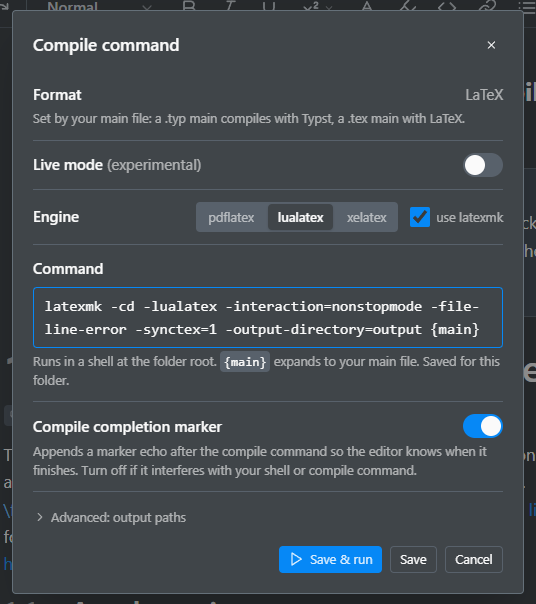
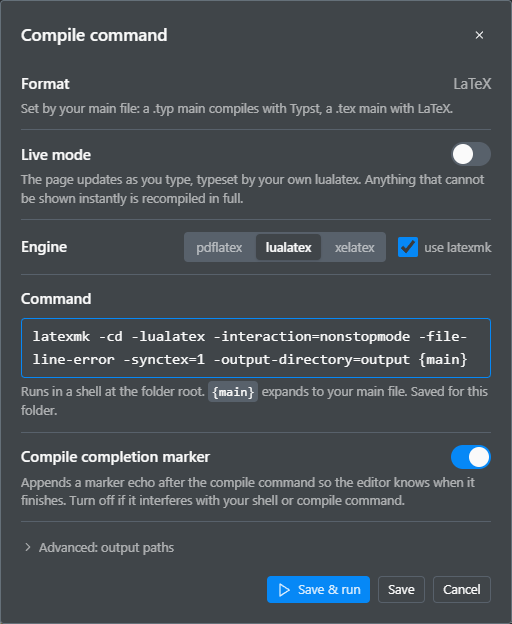
feat(editor): take live mode out of experimental
The compile dialog drops the experimental tag, explains live mode under the switch, and warns about battery use and document size while it is on. The docs page lists the limits (lualatex only, no shell escape, Save PDF, shared sessions, autosave, the _draft folder) and the dialog screenshot is recaptured. The Typst preview note uses the same plain wording.

Changed region(s): [[0.0, 0.0, 1.0, 1.0], [0.9062, 0.0596, 0.9375, 0.0894]]

diff --git a/apps/texpile-editor/src/lib/modals/workspace/LatexCompileSettings.svelte b/apps/texpile-editor/src/lib/modals/workspace/LatexCompileSettings.svelte
@@ -58,9 +58,7 @@
      was, ready for the next LaTeX folder. -->
 <div class={row}>
 	<div class="flex items-center justify-between gap-4">
-		<span class="text-sm font-medium">
-			{m.wsview_live_mode_label()} <span class="text-muted font-normal">{m.wsview_experimental_label()}</span>
-		</span>
+		<span class="text-sm font-medium">{m.wsview_live_mode_label()}</span>
 		<Switch
 			checked={compileConfig.current.latex.liveMode}
 			disabled={sessionActive}
@@ -70,6 +68,7 @@
 			<Switch.HiddenInput />
 		</Switch>
 	</div>
+	<p class="text-muted mt-1 text-xs">{m.wsview_live_mode_hint()}</p>
 
 	{#if sessionActive}
 		<p class="text-warning-ink mt-1 text-xs">{m.wsview_live_mode_collab_note()}</p>
@@ -80,6 +79,7 @@
 			{m.wsview_livemode_desc_pre()} <strong>lualatex</strong>
 			{m.wsview_livemode_desc_post()}
 		</p>
+		<p class="text-warning-ink mt-1 text-xs">{m.wsview_live_mode_battery_note()}</p>
 		<div class="border-surface-300-700 text-muted mt-3 rounded-base border border-dashed px-3 py-2 text-xs">
 			{m.wsview_compile_disabled_live()}
 			<code class="bg-surface-200-800 ml-1 rounded-base px-1 opacity-70">lualatex (built-in)</code>

diff --git a/docs/latex/live-preview.md b/docs/latex/live-preview.md
@@ -19,4 +19,21 @@ Live preview is Texpile's answer to recompiling by hand. Texpile injects its own
 > [!NOTE]
 > Live preview needs a TeX distribution installed. A failed compile is reported in the Problems panel.
 
+## What renders instantly
+
+An edit is shown at once only when the engine confirms that the result is what a full compile would produce. Editing a paragraph, a heading, a list item, an equation, or a table cell usually qualifies. An edit that moves a page break, touches a footnote, or changes a float is compiled in full instead, about a second after you stop typing. Nothing is drawn from a guess.
+
+## Limits
+
+Live preview runs its own lualatex pipeline, which differs from Compile in a few ways.
+
+- **lualatex only.** The preview uses lualatex whatever the compile command says. A document that only compiles with pdflatex or xelatex fails in the preview, and the Problems panel says why. Compile still runs your own command.
+- **No shell escape.** Packages that run a program, such as minted or externalized TikZ, do not build in the preview.
+- **Save PDF** in the preview toolbar writes the lualatex render. Compile is the export that follows your command.
+- **Not while hosting a shared session.** Guests see the compiled PDF instead.
+- **Autosave stays on** while the preview runs.
+- **Battery.** The engine stays running while you type, which can use a lot of battery on a laptop. Turn live mode off when you are not using it.
+- **Document size.** Live mode works best with small to medium documents. A long book still previews, but each full recompile takes longer.
+- The preview keeps its files in a `_draft` folder inside the project. The folder is hidden from the file tree and ignores itself in git.
+
 [The Typst preview](../typst/live-preview.md)

diff --git a/CHANGELOG.md b/CHANGELOG.md
@@ -5,6 +5,8 @@ Release notes for Texpile Desktop. Add notes under `## [Unreleased]` as you work
 
 ## [Unreleased]
 
+- fix: live mode is no longer marked experimental in the compile dialog, and the docs list its limits
+
 ## [1.0.0-rc.4] - 2026-09-04
 
 - fix: MCP now give assistant tools to fix issues regarding comments when editing files
